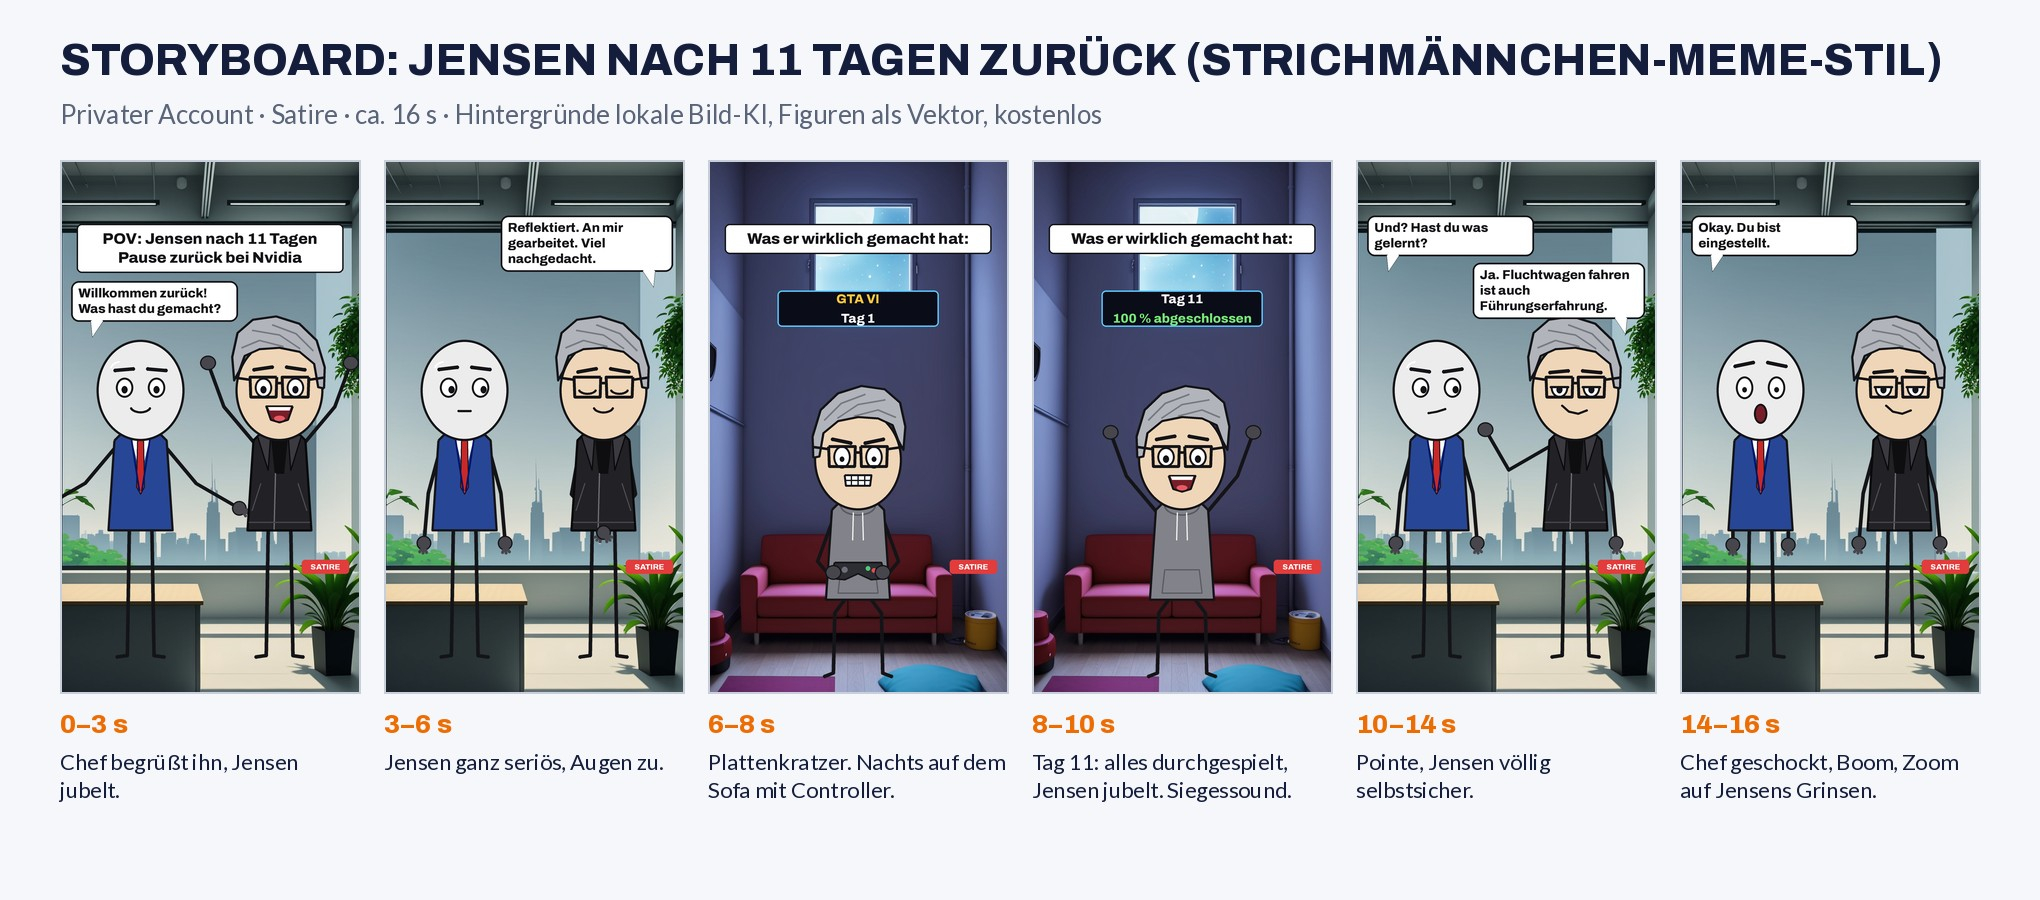
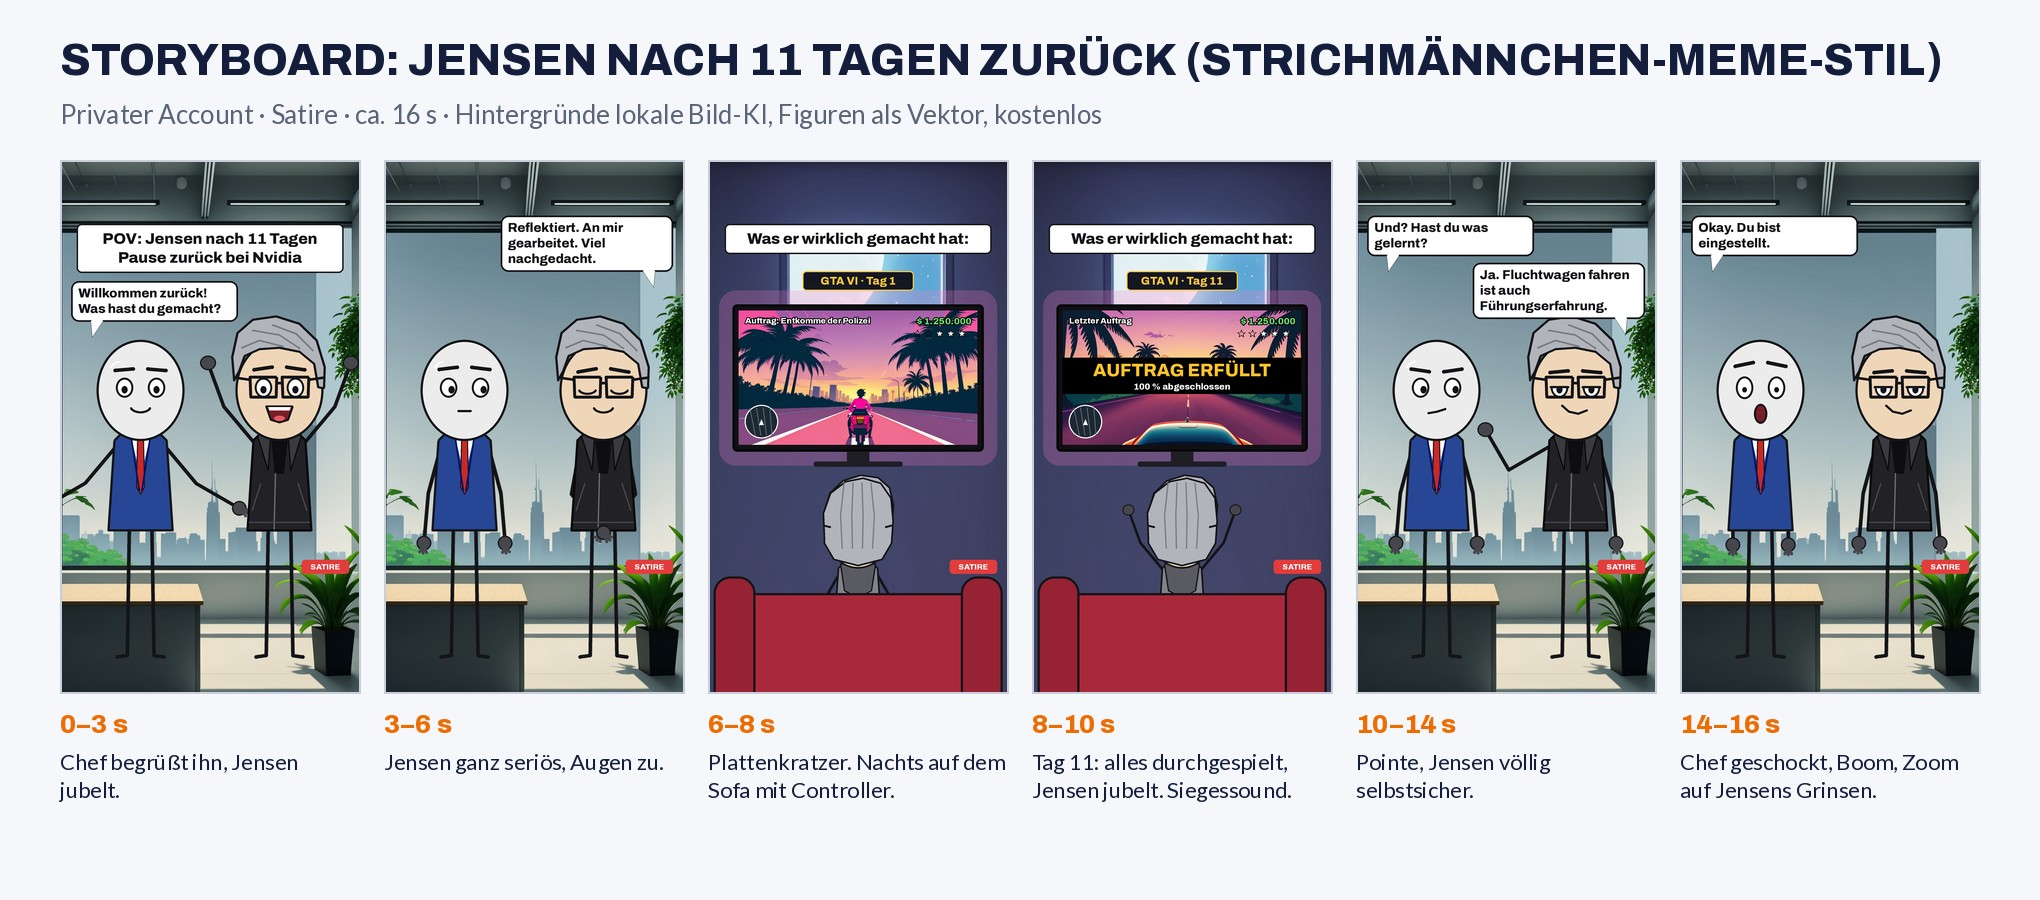
Huang-Storyboard: Fernseher mit Spiel im Open-World-Look, Rückenansicht
Claude-Session: https://claude.ai/code/session_01CMhTnVDmbL7RTLVGma6XXH

Changed region(s): [[0.3397, 0.1556, 0.6794, 0.7778]]

diff --git a/werkzeuge/storyboard_huang_strich.py b/werkzeuge/storyboard_huang_strich.py
@@ -53,11 +53,61 @@ def buero(chef, jensen, oben=None, b_chef=None, b_jensen=None):
     return img
 
 
-def sofa(jensen, zeilen):
-    img = hg("bg_wohnzimmer", oben=0.04)
-    sm.figur(img, 540, 1860, groesse=1.2, bein="sitzen", **HOODIE, **jensen)
+def spielbild(name, auftrag, erfuellt=False):
+    """Spielszene im Open-World-Look (KI-Bild) mit selbst gezeichnetem HUD: Minikarte, Fahndungssterne, Geld."""
+    g = Image.open(os.path.join(ORDNER, name + ".png")).convert("RGB").resize((860, 484), Image.LANCZOS)
+    d = ImageDraw.Draw(g)
+    d.ellipse([22, 340, 142, 460], fill=(30, 40, 50), outline=(255, 255, 255), width=4)
+    for k in range(4):
+        d.line([(40 + k * 24, 350), (60 + k * 20, 450)], fill=(90, 110, 130), width=3)
+    d.polygon([(82, 392), (74, 412), (90, 412)], fill=(255, 255, 255))
+    f = font("h800", 34)
+    d.text((838, 20), "$ 1.250.000", font=f, fill=(110, 220, 110), anchor="ra", stroke_width=3, stroke_fill=(0, 0, 0))
+    for k in range(5):
+        cx, cy, r = 838 - 34 - k * 40, 84, 15
+        import math
+        pts = [(cx + (r if i % 2 == 0 else r * 0.45) * math.sin(math.radians(i * 36)),
+                cy - (r if i % 2 == 0 else r * 0.45) * math.cos(math.radians(i * 36))) for i in range(10)]
+        d.polygon(pts, fill=(255, 255, 255) if k < 3 else None, outline=(0, 0, 0), width=2)
+    d.text((24, 20), auftrag, font=font("h800", 30), fill=(255, 255, 255), stroke_width=3,
+           stroke_fill=(0, 0, 0))
+    if erfuellt:
+        d.rectangle([0, 170, 860, 300], fill=(0, 0, 0, 0))
+        ov = Image.new("RGBA", g.size, (0, 0, 0, 0))
+        ImageDraw.Draw(ov).rectangle([0, 172, 860, 300], fill=(0, 0, 0, 150))
+        g = Image.alpha_composite(g.convert("RGBA"), ov).convert("RGB")
+        d = ImageDraw.Draw(g)
+        d.text((430, 180), "AUFTRAG ERFÜLLT", font=font("h800", 64), fill=(255, 196, 40), anchor="ma",
+               stroke_width=4, stroke_fill=(0, 0, 0))
+        d.text((430, 256), "100 % abgeschlossen", font=font("h800", 32), fill=(255, 255, 255), anchor="ma",
+               stroke_width=3, stroke_fill=(0, 0, 0))
+    return g
+
+
+def sofa(jensen, spiel, tag, auftrag, erfuellt=False):
+    im = Image.open(os.path.join(ORDNER, "bg_wohnzimmer.png")).convert("RGB")
+    hh = int(im.height * 0.62)
+    bw = int(hh * 9 / 16)
+    img = im.crop(((im.width - bw) // 2, int(im.height * 0.03), (im.width + bw) // 2, hh)).resize((W, H), Image.LANCZOS)
+    d = ImageDraw.Draw(img)
+    # Fernseher an der Wand mit Lichtschein
+    glow = Image.new("RGBA", img.size, (0, 0, 0, 0))
+    ImageDraw.Draw(glow).rounded_rectangle([40, 470, 1040, 1100], radius=60, fill=(255, 120, 200, 60))
+    img.paste(glow, (0, 0), glow)
+    d.rounded_rectangle([88, 520, 992, 1050], radius=16, fill=(16, 16, 20), outline=(5, 5, 8), width=8)
+    img.paste(spielbild(spiel, auftrag, erfuellt), (110, 542))
+    d.rectangle([500, 1050, 580, 1090], fill=(30, 30, 36))
+    d.rounded_rectangle([380, 1086, 700, 1104], radius=8, fill=(30, 30, 36))
+    # Jensen von hinten auf dem Sofa
+    sm.figur(img, 540, 1920, groesse=0.9, bein="sitzen", ruecken=True, **HOODIE, **jensen)
+    # Sofalehne im Vordergrund
+    d = ImageDraw.Draw(img)
+    d.rounded_rectangle([60, 1560, 1020, 1990], radius=70, fill=(170, 40, 60), outline=(20, 20, 24), width=8)
+    d.rounded_rectangle([20, 1500, 170, 1990], radius=60, fill=(150, 34, 52), outline=(20, 20, 24), width=8)
+    d.rounded_rectangle([910, 1500, 1060, 1990], radius=60, fill=(150, 34, 52), outline=(20, 20, 24), width=8)
     fc.text_oben(img, "Was er wirklich gemacht hat:")
-    hud(img, zeilen)
+    d.rounded_rectangle([340, 400, 740, 470], radius=14, fill=(20, 22, 34), outline=(255, 200, 60), width=4)
+    d.text((540, 435), tag, font=font("h800", 40), fill=(255, 200, 60), anchor="mm")
     satire(img)
     return img
 
@@ -73,11 +123,10 @@ def main():
                dict(augen="zu", mund="laecheln", brauen=(-12, 4), arm_l=(10, -40), arm_r=(10, -40)),
                None, None, "Reflektiert. An mir gearbeitet. Viel nachgedacht."),
          "3–6 s", "Jensen ganz seriös, Augen zu."),
-        (sofa(dict(augen="gross", brauen=(14, 0), mund="zaehne", arm_l=(20, -40), arm_r=(20, -40),
-                   halt="controller"), [("GTA VI", (255, 200, 60)), ("Tag 1", (255, 255, 255))]),
+        (sofa(dict(arm_l=(30, 10), arm_r=(30, 10), halt="controller"), "spiel_1", "GTA VI · Tag 1",
+              "Auftrag: Entkomme der Polizei"),
          "6–8 s", "Plattenkratzer. Nachts auf dem Sofa mit Controller."),
-        (sofa(dict(mund="lachen", brauen=(-12, 10), **jubel),
-              [("Tag 11", (255, 255, 255)), ("100 % abgeschlossen", (120, 230, 120))]),
+        (sofa(dict(**jubel), "spiel_2", "GTA VI · Tag 11", "Letzter Auftrag", erfuellt=True),
          "8–10 s", "Tag 11: alles durchgespielt, Jensen jubelt. Siegessound."),
         (buero(dict(mund="skeptisch", brauen=(10, 4), blick=(1, 0)),
                dict(augen="genervt", mund="grinsen", brauen=(-6, 0), arm_l=(15, 5), arm_r=(60, 150), faust=(False, True)),

diff --git a/werkzeuge/strichmann.py b/werkzeuge/strichmann.py
@@ -131,7 +131,7 @@ def figur(img, x, y_fuss, groesse=1.0, spiegeln=False,
           oberteil="tshirt", farbe=(60, 160, 90),
           augen="normal", brauen=(0, 0), mund="neutral", blick=(0, 0),
           arm_l=(15, 5), arm_r=(15, 5), faust=(False, False), bein="stehen", kopf_neigung=0,
-          halt=None):
+          halt=None, ruecken=False):
     """arm_l/arm_r: (Oberarm-, Unterarm-Winkel) in Grad, 0 = hängt, 90 = waagerecht nach außen, 170 = hoch.
     bein: 'stehen' | 'sitzen'. halt: 'controller' für Gamepad in beiden Händen."""
     w, h = img.size
@@ -175,15 +175,22 @@ def figur(img, x, y_fuss, groesse=1.0, spiegeln=False,
             st.linie([(sx * 30, t_oben + 2), (sx * 4, t_oben + 170)], 5, tuple(max(0, c - 50) for c in farbe))
     elif oberteil == "hoodie":
         st.poly(rumpf, farbe, SCHWARZ, 7)
-        st.bogen(0, t_oben + 6, 52, 30, 0, 180, b=5, f=tuple(max(0, c - 40) for c in farbe))
-        for sx in (-1, 1):
+        dunkel = tuple(max(0, c - 40) for c in farbe)
+        if ruecken:
+            st.poly([(-70, t_oben + 4), (70, t_oben + 4), (54, t_oben + 110), (0, t_oben + 140), (-54, t_oben + 110)],
+                    dunkel, SCHWARZ, 5)
+        else:
+            st.bogen(0, t_oben + 6, 52, 30, 0, 180, b=5, f=dunkel)
+        for sx in (() if ruecken else (-1, 1)):
             st.linie([(sx * 14, t_oben + 30), (sx * 16, t_oben + 110)], 4, (240, 240, 240))
-        st.poly([(-52, huefte - 90), (52, huefte - 90), (60, huefte - 20), (-60, huefte - 20)], None,
-                tuple(max(0, c - 40) for c in farbe), 4)
+        if not ruecken:
+            st.poly([(-52, huefte - 90), (52, huefte - 90), (60, huefte - 20), (-60, huefte - 20)], None, dunkel, 4)
     else:
         st.poly(rumpf, farbe, SCHWARZ, 7)
     # Hände
-    if halt == "controller":
+    if ruecken and halt == "controller":
+        pass
+    elif halt == "controller":
         cx, cy = 0, t_oben + 200
         st.poly([(-70, cy - 22), (70, cy - 22), (84, cy + 26), (40, cy + 30), (0, cy + 12), (-40, cy + 30),
                  (-84, cy + 26)], (45, 45, 52), SCHWARZ, 5)
@@ -209,7 +216,17 @@ def figur(img, x, y_fuss, groesse=1.0, spiegeln=False,
             st.linie(list(pts), 5, (120, 122, 130))
     elif haar == "glatze":
         st.bogen(-60, hy - 60, 30, 26, 200, 260, b=5, f=(255, 255, 255))
-    _gesicht(st, hy, haut, augen, brauen, mund, blick, brille)
+    if ruecken:
+        st.poly([(-134, hy + 30), (-138, hy - 70), (-110, hy - 150), (-50, hy - 196), (20, hy - 210), (90, hy - 190),
+                 (132, hy - 130), (140, hy - 40), (134, hy + 50), (96, hy + 116), (0, hy + 140), (-96, hy + 116), (-134, hy + 50)],
+                haar_farbe, SCHWARZ, 7)
+        for k in (-70, -25, 20, 65):
+            st.linie([(k * 0.8, hy - 190), (k, hy - 60), (k * 0.9, hy + 70)], 5, (120, 122, 130))
+        if brille:
+            st.linie([(-134, hy - 20), (-112, hy - 14)], 8)
+            st.linie([(134, hy - 20), (112, hy - 14)], 8)
+    else:
+        _gesicht(st, hy, haut, augen, brauen, mund, blick, brille)
 
     klein = ebene.resize((w, h), Image.LANCZOS)
     if img.mode == "RGBA":
